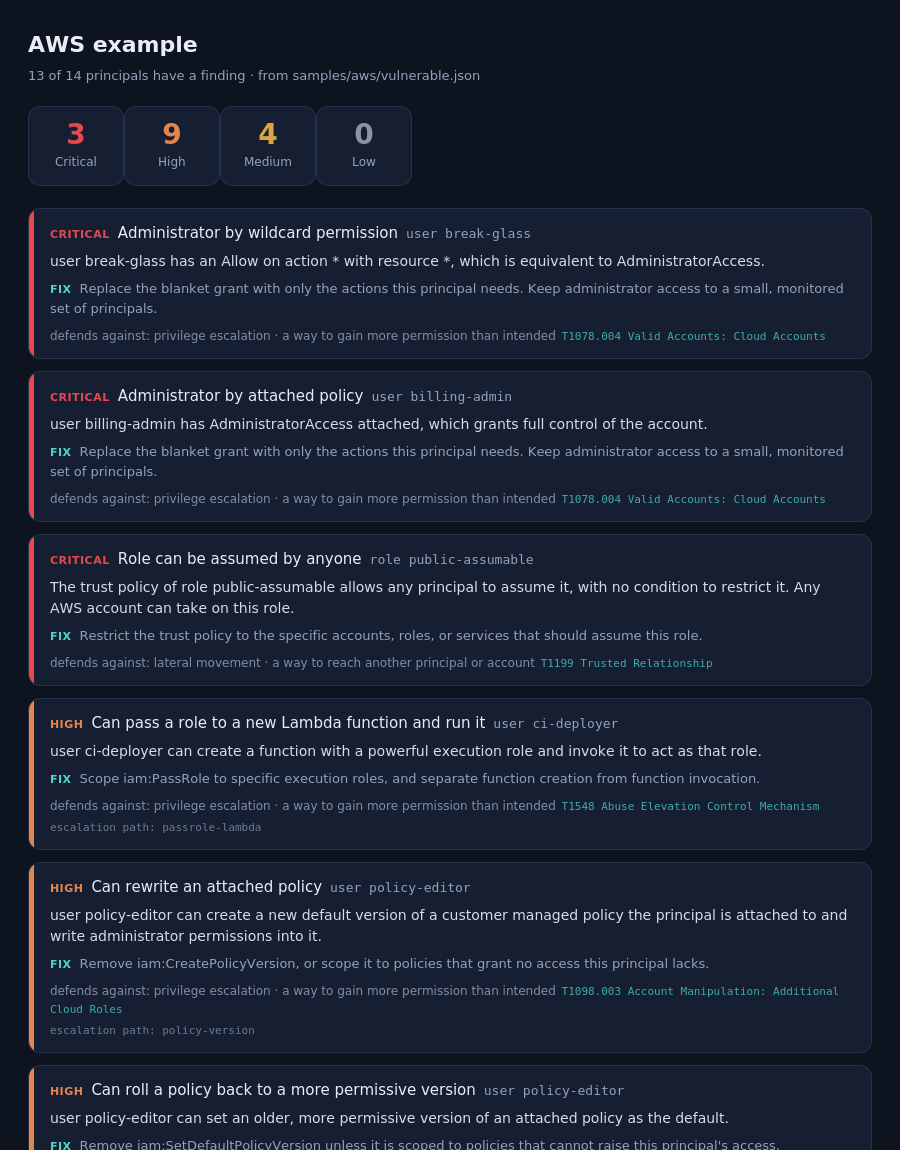
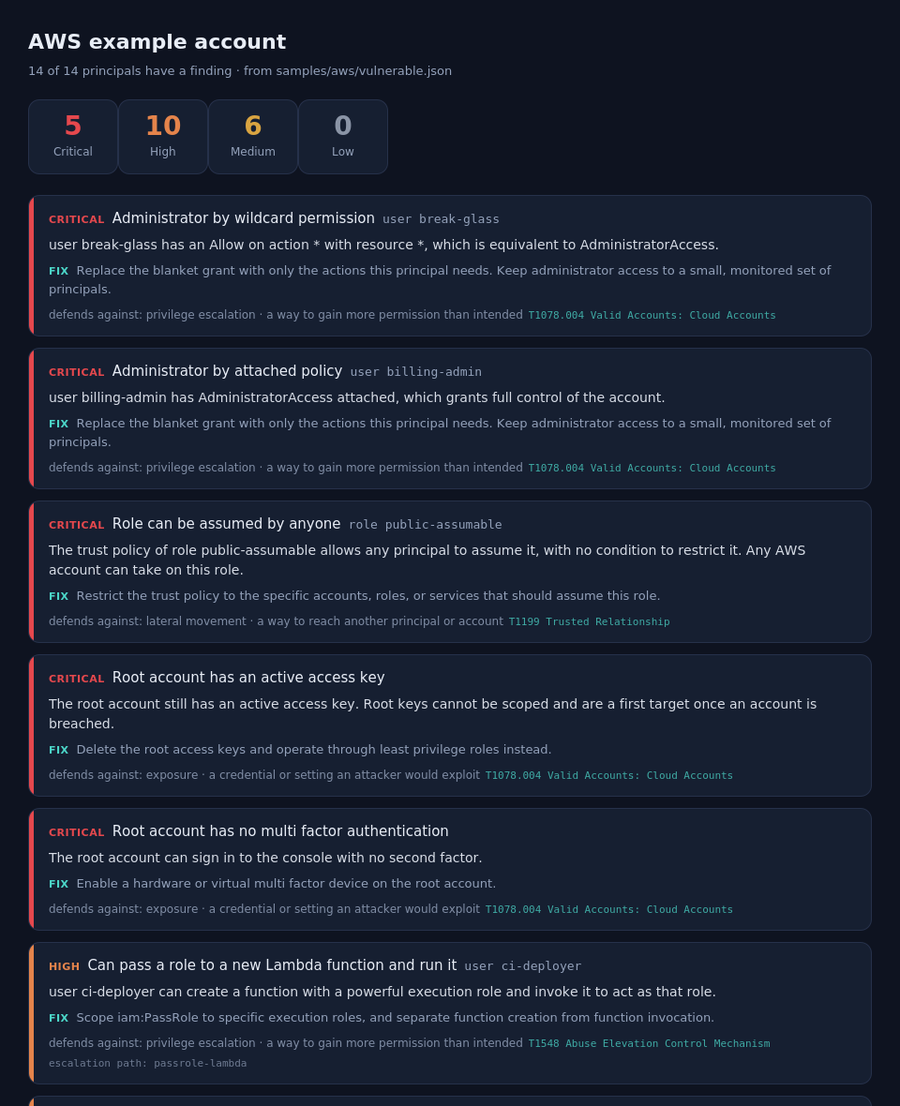
Raqib 0.4.0

Changed region(s): [[0.0311, 0.1844, 0.9333, 1.0], [0.0311, 0.0307, 0.5289, 0.1537]]

diff --git a/docs/report.html b/docs/report.html
@@ -1,7 +1,7 @@
 <!doctype html>
 <html lang="en"><head>
 <meta charset="utf-8"><meta name="viewport" content="width=device-width,initial-scale=1">
-<title>AWS account 111122223333</title>
+<title>AWS example account</title>
 <meta name="generator" content="Raqib">
 <style>
 :root{--bg:#0e1320;--panel:#161f31;--line:#26314a;--text:#e8edf6;--dim:#93a1ba;--accent:#4bd6c8}
@@ -32,7 +32,7 @@ h1{font-size:22px;margin:0 0 4px}
 .mark{color:var(--accent);font-weight:600}
 </style></head>
 <body><div class="wrap">
-<h1>AWS account 111122223333</h1>
+<h1>AWS example account</h1>
 <div class="sub">14 of 14 principals have a finding &middot; from samples/aws/vulnerable.json</div>
 <div class="stats"><div class="stat"><div class="num" style="color:#e5484d">5</div><div class="lbl">critical</div></div><div class="stat"><div class="num" style="color:#e5844b">10</div><div class="lbl">high</div></div><div class="stat"><div class="num" style="color:#d9a441">6</div><div class="lbl">medium</div></div><div class="stat"><div class="num" style="color:#8a94a6">0</div><div class="lbl">low</div></div></div>
 <div class="finding" data-sev="critical"><div class="bar" style="background:#e5484d"></div><div class="body"><div class="head"><span class="sev" style="color:#e5484d">critical</span><span class="ttl">Administrator by wildcard permission</span><span class="who">user break-glass</span></div><div class="detail">user break-glass has an Allow on action * with resource *, which is equivalent to AdministratorAccess.</div><div class="fix"><span class="fixlbl">fix</span> Replace the blanket grant with only the actions this principal needs. Keep administrator access to a small, monitored set of principals.</div><div class="tactic">defends against: privilege escalation &middot; a way to gain more permission than intended <span class="tech">T1078.004 Valid Accounts: Cloud Accounts</span></div></div></div><div class="finding" data-sev="critical"><div class="bar" style="background:#e5484d"></div><div class="body"><div class="head"><span class="sev" style="color:#e5484d">critical</span><span class="ttl">Administrator by attached policy</span><span class="who">user billing-admin</span></div><div class="detail">user billing-admin has AdministratorAccess attached, which grants full control of the account.</div><div class="fix"><span class="fixlbl">fix</span> Replace the blanket grant with only the actions this principal needs. Keep administrator access to a small, monitored set of principals.</div><div class="tactic">defends against: privilege escalation &middot; a way to gain more permission than intended <span class="tech">T1078.004 Valid Accounts: Cloud Accounts</span></div></div></div><div class="finding" data-sev="critical"><div class="bar" style="background:#e5484d"></div><div class="body"><div class="head"><span class="sev" style="color:#e5484d">critical</span><span class="ttl">Role can be assumed by anyone</span><span class="who">role public-assumable</span></div><div class="detail">The trust policy of role public-assumable allows any principal to assume it, with no condition to restrict it. Any AWS account can take on this role.</div><div class="fix"><span class="fixlbl">fix</span> Restrict the trust policy to the specific accounts, roles, or services that should assume this role.</div><div class="tactic">defends against: lateral movement &middot; a way to reach another principal or account <span class="tech">T1199 Trusted Relationship</span></div></div></div><div class="finding" data-sev="critical"><div class="bar" style="background:#e5484d"></div><div class="body"><div class="head"><span class="sev" style="color:#e5484d">critical</span><span class="ttl">Root account has an active access key</span></div><div class="detail">The root account still has an active access key. Root keys cannot be scoped and are a first target once an account is breached.</div><div class="fix"><span class="fixlbl">fix</span> Delete the root access keys and operate through least privilege roles instead.</div><div class="tactic">defends against: exposure &middot; a credential or setting an attacker would exploit <span class="tech">T1078.004 Valid Accounts: Cloud Accounts</span></div></div></div><div class="finding" data-sev="critical"><div class="bar" style="background:#e5484d"></div><div class="body"><div class="head"><span class="sev" style="color:#e5484d">critical</span><span class="ttl">Root account has no multi factor authentication</span></div><div class="detail">The root account can sign in to the console with no second factor.</div><div class="fix"><span class="fixlbl">fix</span> Enable a hardware or virtual multi factor device on the root account.</div><div class="tactic">defends against: exposure &middot; a credential or setting an attacker would exploit <span class="tech">T1078.004 Valid Accounts: Cloud Accounts</span></div></div></div><div class="finding" data-sev="high"><div class="bar" style="background:#e5844b"></div><div class="body"><div class="head"><span class="sev" style="color:#e5844b">high</span><span class="ttl">Can pass a role to a new Lambda function and run it</span><span class="who">user ci-deployer</span></div><div class="detail">user ci-deployer can create a function with a powerful execution role and invoke it to act as that role.</div><div class="fix"><span class="fixlbl">fix</span> Scope iam:PassRole to specific execution roles, and separate function creation from function invocation.</div><div class="tactic">defends against: privilege escalation &middot; a way to gain more permission than intended <span class="tech">T1548 Abuse Elevation Control Mechanism</span></div><div class="refs">escalation path: passrole-lambda</div></div></div><div class="finding" data-sev="high"><div class="bar" style="background:#e5844b"></div><div class="body"><div class="head"><span class="sev" style="color:#e5844b">high</span><span class="ttl">Can rewrite an attached policy</span><span class="who">user policy-editor</span></div><div class="detail">user policy-editor can create a new default version of a customer managed policy the principal is attached to and write administrator permissions into it.</div><div class="fix"><span class="fixlbl">fix</span> Remove iam:CreatePolicyVersion, or scope it to policies that grant no access this principal lacks.</div><div class="tactic">defends against: privilege escalation &middot; a way to gain more permission than intended <span class="tech">T1098.003 Account Manipulation: Additional Cloud Roles</span></div><div class="refs">escalation path: policy-version</div></div></div><div class="finding" data-sev="high"><div class="bar" style="background:#e5844b"></div><div class="body"><div class="head"><span class="sev" style="color:#e5844b">high</span><span class="ttl">Can roll a policy back to a more permissive version</span><span class="who">user policy-editor</span></div><div class="detail">user policy-editor can set an older, more permissive version of an attached policy as the default.</div><div class="fix"><span class="fixlbl">fix</span> Remove iam:SetDefaultPolicyVersion unless it is scoped to policies that cannot raise this principal&#x27;s access.</div><div class="tactic">defends against: privilege escalation &middot; a way to gain more permission than intended <span class="tech">T1098.003 Account Manipulation: Additional Cloud Roles</span></div><div class="refs">escalation path: set-default-version</div></div></div><div class="finding" data-sev="high"><div class="bar" style="background:#e5844b"></div><div class="body"><div class="head"><span class="sev" style="color:#e5844b">high</span><span class="ttl">Can pass a role to a new EC2 instance</span><span class="who">user policy-editor</span></div><div class="detail">user policy-editor can launch an instance with a powerful instance profile and use its credentials.</div><div class="fix"><span class="fixlbl">fix</span> Scope iam:PassRole to specific low privilege roles, and restrict ec2:RunInstances.</div><div class="tactic">defends against: privilege escalation &middot; a way to gain more permission than intended <span class="tech">T1548 Abuse Elevation Control Mechanism</span></div><div class="refs">escalation path: passrole-ec2</div></div></div><div class="finding" data-sev="high"><div class="bar" style="background:#e5844b"></div><div class="body"><div class="head"><span class="sev" style="color:#e5844b">high</span><span class="ttl">Administrator by wildcard permission</span><span class="who">user bounded-operator</span></div><div class="detail">user bounded-operator has an Allow on action * with resource *, which is equivalent to AdministratorAccess. A permissions boundary (s3-only-boundary) is attached, so effective permissions are limited to the boundary rather than the whole account. Verify the boundary.</div><div class="fix"><span class="fixlbl">fix</span> Replace the blanket grant with only the actions this principal needs. Keep administrator access to a small, monitored set of principals.</div><div class="tactic">defends against: privilege escalation &middot; a way to gain more permission than intended <span class="tech">T1078.004 Valid Accounts: Cloud Accounts</span></div></div></div><div class="finding" data-sev="high"><div class="bar" style="background:#e5844b"></div><div class="body"><div class="head"><span class="sev" style="color:#e5844b">high</span><span class="ttl">Full control of iam through a service wildcard</span><span class="who">user iam-admin</span></div><div class="detail">user iam-admin is allowed iam:* , every action in a sensitive service on resource *.</div><div class="fix"><span class="fixlbl">fix</span> List only the iam actions this principal uses instead of the iam:* wildcard.</div><div class="tactic">defends against: privilege escalation &middot; a way to gain more permission than intended <span class="tech">T1078.004 Valid Accounts: Cloud Accounts</span></div></div></div><div class="finding" data-sev="high"><div class="bar" style="background:#e5844b"></div><div class="body"><div class="head"><span class="sev" style="color:#e5844b">high</span><span class="ttl">Can read or move data broadly</span><span class="who">user secrets-reader</span></div><div class="detail">user secrets-reader can read every secret in Secrets Manager, and read every SSM parameter. An intruder holding this principal would use it to pull data out.</div><div class="fix"><span class="fixlbl">fix</span> Scope these actions to the specific secrets, buckets, parameters, and tables the principal needs, and never to all of them.</div><div class="tactic">defends against: exfiltration <span class="tech">T1530 Data from Cloud Storage</span></div></div></div><div class="finding" data-sev="high"><div class="bar" style="background:#e5844b"></div><div class="body"><div class="head"><span class="sev" style="color:#e5844b">high</span><span class="ttl">Can read or move data broadly</span><span class="who">role public-assumable</span></div><div class="detail">role public-assumable can read objects in any bucket. An intruder holding this principal would use it to pull data out.</div><div class="fix"><span class="fixlbl">fix</span> Scope these actions to the specific secrets, buckets, parameters, and tables the principal needs, and never to all of them.</div><div class="tactic">defends against: exfiltration <span class="tech">T1530 Data from Cloud Storage</span></div></div></div><div class="finding" data-sev="high"><div class="bar" style="background:#e5844b"></div><div class="body"><div class="head"><span class="sev" style="color:#e5844b">high</span><span class="ttl">Can weaken the audit trail</span><span class="who">user log-manager</span></div><div class="detail">user log-manager can stop or delete CloudTrail, stop or delete Config recording, and disable or delete GuardDuty. An intruder holding this principal would use it to reduce or erase the record of what they did.</div><div class="fix"><span class="fixlbl">fix</span> Remove these actions from the principal, and protect logging with an organization policy so a single account cannot turn it off.</div><div class="tactic">defends against: defense evasion <span class="tech">T1562.008 Impair Defenses: Disable or Modify Cloud Logs</span></div></div></div><div class="finding" data-sev="high"><div class="bar" style="background:#e5844b"></div><div class="body"><div class="head"><span class="sev" style="color:#e5844b">high</span><span class="ttl">Console user without multi factor authentication</span><span class="who">user policy-editor</span></div><div class="detail">policy-editor can sign in to the console with a password and no second factor, so a phished or reused password is enough to sign in.</div><div class="fix"><span class="fixlbl">fix</span> Require multi factor authentication for every console user.</div><div class="tactic">defends against: exposure &middot; a credential or setting an attacker would exploit <span class="tech">T1078.004 Valid Accounts: Cloud Accounts</span></div></div></div><div class="finding" data-sev="medium"><div class="bar" style="background:#d9a441"></div><div class="body"><div class="head"><span class="sev" style="color:#d9a441">medium</span><span class="ttl">Can export the entire IAM configuration</span><span class="who">user recon-bot</span></div><div class="detail">user recon-bot can call iam:GetAccountAuthorizationDetails, which returns every user, role, group, and policy in one response. It is the first thing an intruder pulls to plan a path, the same export this report is built from.</div><div class="fix"><span class="fixlbl">fix</span> Limit this action to the small set of principals that audit IAM, and watch for it in the trail.</div><div class="tactic">defends against: reconnaissance &middot; broad visibility an attacker would use to plan <span class="tech">T1580 Cloud Infrastructure Discovery</span></div></div></div><div class="finding" data-sev="medium"><div class="bar" style="background:#d9a441"></div><div class="body"><div class="head"><span class="sev" style="color:#d9a441">medium</span><span class="ttl">Can reset another user&#x27;s console password, possibly limited by a resource restriction</span><span class="who">user support-agent</span></div><div class="detail">user support-agent can reset the console password of a more privileged user and sign in as them. The grant is scoped to specific resources, so confirm the scope does not include a target more privileged than this principal.</div><div class="fix"><span class="fixlbl">fix</span> Scope iam:UpdateLoginProfile to the principal&#x27;s own user.</div><div class="tactic">defends against: privilege escalation &middot; a way to gain more permission than intended <span class="tech">T1098 Account Manipulation</span></div><div class="refs">escalation path: update-login-profile</div></div></div><div class="finding" data-sev="medium"><div class="bar" style="background:#d9a441"></div><div class="body"><div class="head"><span class="sev" style="color:#d9a441">medium</span><span class="ttl">Can create IAM users</span><span class="who">user identity-provisioner</span></div><div class="detail">user identity-provisioner can create IAM users. On its own that is limited, but paired with a way to grant access it becomes a back door.</div><div class="fix"><span class="fixlbl">fix</span> Limit iam:CreateUser to the principals that provision identities, and watch for new users.</div><div class="tactic">defends against: persistence &middot; a way to keep access once gained <span class="tech">T1098.001 Account Manipulation: Additional Cloud Credentials</span></div></div></div><div class="finding" data-sev="medium"><div class="bar" style="background:#d9a441"></div><div class="body"><div class="head"><span class="sev" style="color:#d9a441">medium</span><span class="ttl">Role trusts an external account</span><span class="who">role partner-access</span></div><div class="detail">The trust policy of role partner-access allows arn:aws:iam::999988887777:root to assume it. If that account is a third party, a missing external id lets a confused deputy assume the role on a caller&#x27;s behalf.</div><div class="fix"><span class="fixlbl">fix</span> Confirm the account is one you control or a trusted partner, and require an external id condition for third party access.</div><div class="tactic">defends against: lateral movement &middot; a way to reach another principal or account <span class="tech">T1199 Trusted Relationship</span></div></div></div><div class="finding" data-sev="medium"><div class="bar" style="background:#d9a441"></div><div class="body"><div class="head"><span class="sev" style="color:#d9a441">medium</span><span class="ttl">Access key is old and still active</span><span class="who">user policy-editor</span></div><div class="detail">An access key for policy-editor was last rotated 1583 days ago and is still active. A leaked long lived key stays valid until it is rotated.</div><div class="fix"><span class="fixlbl">fix</span> Rotate keys on a schedule shorter than 90 days, and remove keys that are not in use.</div><div class="tactic">defends against: exposure &middot; a credential or setting an attacker would exploit <span class="tech">T1078.004 Valid Accounts: Cloud Accounts</span></div></div></div><div class="finding" data-sev="medium"><div class="bar" style="background:#d9a441"></div><div class="body"><div class="head"><span class="sev" style="color:#d9a441">medium</span><span class="ttl">Access key is old and still active</span><span class="who">user report-reader</span></div><div class="detail">An access key for report-reader was last rotated 381 days ago and is still active. A leaked long lived key stays valid until it is rotated.</div><div class="fix"><span class="fixlbl">fix</span> Rotate keys on a schedule shorter than 90 days, and remove keys that are not in use.</div><div class="tactic">defends against: exposure &middot; a credential or setting an attacker would exploit <span class="tech">T1078.004 Valid Accounts: Cloud Accounts</span></div></div></div>

diff --git a/docs/index.html b/docs/index.html
@@ -1,8 +1,8 @@
 <!doctype html>
 <html lang="en"><head>
 <meta charset="utf-8"><meta name="viewport" content="width=device-width,initial-scale=1">
-<title>Raqib: read only AWS IAM exposure auditor</title>
-<meta name="description" content="Raqib reads an AWS IAM export and reports the privilege escalation paths, dangerous trust relationships, wildcard permissions, and stale credentials an attacker would exploit, each with the fix. Zero dependencies, never touches your account.">
+<title>Raqib: read only cloud exposure auditor for AWS, Azure, GCP, and Kubernetes</title>
+<meta name="description" content="Raqib reads a cloud authorization export, for AWS, Azure, GCP, or Kubernetes, and reports the privilege escalation, persistence, lateral movement, exfiltration, and anti forensics paths an attacker would use, each with the fix. Zero dependencies, never touches your account.">
 <style>
 :root{--bg:#0e1320;--panel:#161f31;--line:#26314a;--text:#e8edf6;--dim:#93a1ba;--accent:#4bd6c8}
 *{box-sizing:border-box}
@@ -26,7 +26,7 @@ li{margin:5px 0;color:#dce3f0}
 </style></head>
 <body><div class="wrap">
 <h1>Raqib</h1>
-<div class="tag">A read only lookout over your AWS IAM. It finds the paths an attacker would take, and tells you how to close them.</div>
+<div class="tag">A read only lookout over your cloud access, for AWS, Azure, GCP, and Kubernetes. It finds the paths an attacker would take, and tells you how to close them.</div>
 <div class="links">
   <a href="https://github.com/SiteQ8/Raqib">GitHub</a>
   <a href="report.html">Open a sample report</a>
@@ -41,6 +41,7 @@ li{margin:5px 0;color:#dce3f0}
 <p>This is Raqib run against a deliberately weak example account. <a href="report.html" style="color:var(--accent)">Open the live report.</a></p>
 
 <h2>Run it</h2>
+<p>Produce your cloud's authorization export and audit it. Raqib detects the cloud on its own. The AWS quickstart:</p>
 <pre>aws iam get-account-authorization-details &gt; export.json
 python3 raqib.py audit export.json
 
@@ -53,8 +54,7 @@ python3 raqib.py audit export.json --strict</pre>
 <p>It is a single zero dependency Python tool. It needs Python 3.8 or newer and nothing else.</p>
 
 <h2>Four clouds, six tactics</h2>
-<p>Raqib reads AWS, Azure, GCP, and Kubernetes, and reports the same six attacker tactics in each cloud's own terms. The checks are named by tactic and cloud, so the defense maps onto the offense one for one. Run <code>python3 raqib.py defends</code> for the map.</p>
-<p>Raqib's checks are organized by attacker tactic, the same six an offensive framework runs, so the defense maps onto the offense one for one. Run <code>python3 raqib.py defends</code> for the map.</p>
+<p>Raqib reads AWS, Azure, GCP, and Kubernetes, and reports the same six attacker tactics in each cloud's own terms. The checks are named by tactic and cloud, in a matrix that mirrors the offensive framework module for module. Run <code>python3 raqib.py defends</code> for the map.</p>
 <ul>
 <li><b>Reconnaissance</b>: the mapping done first, dumping the IAM configuration in AWS, Reader over a management group in Azure, project Viewer in GCP, cluster wide list in Kubernetes.</li>
 <li><b>Privilege escalation</b>: IAM escalation paths and administrator in AWS, Owner and writing role assignments in Azure, Owner and setIamPolicy and impersonation in GCP, cluster-admin and the escalate, bind, and impersonate verbs in Kubernetes.</li>

diff --git a/tests/test_gcp.py b/tests/test_gcp.py
@@ -1,4 +1,4 @@
-import unittest, os, json
+import os, json, unittest
 from raqib import audit
 from raqib.models import gcp
 
@@ -6,41 +6,46 @@ HERE = os.path.dirname(os.path.dirname(os.path.abspath(__file__)))
 
 
 def load(name):
-    with open(os.path.join(HERE, "samples", "gcp", name), "r", encoding="utf-8") as fh:
+    with open(os.path.join(HERE, "samples", "gcp", name)) as fh:
         return json.load(fh)
 
 
 class TestGcpModel(unittest.TestCase):
-    def test_owner_role_is_owner(self):
+    def test_owner_detected(self):
         acct = gcp.load(load("vulnerable.json"))
-        owner = [p for p in acct.principals if p.name == "founder@example.com"][0]
-        self.assertTrue(acct.is_owner(owner))
+        self.assertTrue(any(acct.is_owner(p) for p in acct.principals))
 
-    def test_custom_role_permissions_resolve(self):
-        acct = gcp.load({"bindings": [{"role": "projects/p/roles/r", "members": ["user:a@b.com"]}],
-                         "customRoles": [{"name": "projects/p/roles/r", "includedPermissions": ["storage.objects.get"]}]})
-        p = acct.principals[0]
-        self.assertTrue(acct.has_permission(p, "storage.objects.get"))
+    def test_custom_role_permissions_read(self):
+        acct = gcp.load(load("clean.json"))
+        p = [p for p in acct.principals if "reporting" in p.member][0]
+        self.assertTrue(acct.has_permission(p, "compute.instances.get"))
+        self.assertFalse(acct.has_permission(p, "storage.objects.get"))
 
-    def test_public_member_detected(self):
+    def test_public_member_flagged_kind(self):
         acct = gcp.load(load("vulnerable.json"))
-        self.assertTrue(any(p.is_public for p in acct.principals))
+        pub = [p for p in acct.principals if p.is_public]
+        self.assertTrue(pub)
+        self.assertEqual(pub[0].kind, "public")
 
 
 class TestGcpFindings(unittest.TestCase):
-    def test_vulnerable_covers_the_key_tactics(self):
-        findings, _, _ = audit(load("vulnerable.json"), cloud="gcp")
+    def test_vulnerable_covers_tactics(self):
+        findings, summary, _ = audit(load("vulnerable.json"))
+        self.assertEqual(summary["cloud"], "gcp")
         tactics = {f["tactic"] for f in findings}
         for t in ["privilege escalation", "lateral movement", "persistence", "exfiltration", "defense evasion", "reconnaissance"]:
             self.assertIn(t, tactics)
 
-    def test_public_binding_is_critical(self):
-        findings, _, _ = audit(load("vulnerable.json"), cloud="gcp")
-        pub = [f for f in findings if f["principal"]["name"] in ("allUsers",)][0]
-        self.assertEqual(pub["severity"], "critical")
+    def test_setiampolicy_is_high(self):
+        findings, _, _ = audit(load("vulnerable.json"))
+        self.assertTrue(any("rewrite the project IAM policy" in f["title"] and f["severity"] == "high" for f in findings))
+
+    def test_public_is_critical(self):
+        findings, _, _ = audit(load("vulnerable.json"))
+        self.assertTrue(any("granted to everyone" in f["title"] and f["severity"] == "critical" for f in findings))
 
     def test_clean_has_no_findings(self):
-        _, summary, _ = audit(load("clean.json"), cloud="gcp")
+        findings, summary, _ = audit(load("clean.json"))
         self.assertEqual(summary["total"], 0)
 
 

diff --git a/tests/test_k8s.py b/tests/test_k8s.py
@@ -1,4 +1,4 @@
-import unittest, os, json
+import os, json, unittest
 from raqib import audit
 from raqib.models import k8s
 
@@ -6,41 +6,47 @@ HERE = os.path.dirname(os.path.dirname(os.path.abspath(__file__)))
 
 
 def load(name):
-    with open(os.path.join(HERE, "samples", "k8s", name), "r", encoding="utf-8") as fh:
+    with open(os.path.join(HERE, "samples", "k8s", name)) as fh:
         return json.load(fh)
 
 
 class TestK8sModel(unittest.TestCase):
     def test_cluster_admin_detected(self):
         acct = k8s.load(load("vulnerable.json"))
-        admin = [p for p in acct.principals if p.name == "break-glass"][0]
-        self.assertTrue(acct.is_cluster_admin(admin))
-
-    def test_binding_resolves_rules_to_subject(self):
-        acct = k8s.load(load("vulnerable.json"))
-        sa = [p for p in acct.principals if p.name == "audit-sa"][0]
-        self.assertTrue(acct.can(sa, "get", "secrets", cluster_wide_only=True))
+        admins = [p for p in acct.principals if acct.is_cluster_admin(p)]
+        self.assertTrue(admins)
 
     def test_namespaced_role_is_not_cluster_wide(self):
         acct = k8s.load(load("clean.json"))
         for p in acct.principals:
             self.assertFalse(acct.can(p, "get", "pods", cluster_wide_only=True))
 
+    def test_secret_read_resolves(self):
+        acct = k8s.load(load("vulnerable.json"))
+        sa = [p for p in acct.principals if p.name == "audit-sa"][0]
+        self.assertTrue(acct.can(sa, "get", "secrets", cluster_wide_only=True))
+
 
 class TestK8sFindings(unittest.TestCase):
-    def test_vulnerable_covers_every_tactic(self):
-        findings, _, _ = audit(load("vulnerable.json"), cloud="k8s")
+    def test_vulnerable_covers_all_tactics(self):
+        findings, summary, _ = audit(load("vulnerable.json"))
+        self.assertEqual(summary["cloud"], "k8s")
         tactics = {f["tactic"] for f in findings}
-        for t in ["reconnaissance", "privilege escalation", "persistence", "lateral movement", "exfiltration", "defense evasion"]:
+        for t in ["privilege escalation", "persistence", "lateral movement", "exfiltration", "defense evasion", "reconnaissance"]:
             self.assertIn(t, tactics)
 
     def test_cluster_admin_is_critical(self):
-        findings, _, _ = audit(load("vulnerable.json"), cloud="k8s")
-        admin = [f for f in findings if f["principal"]["name"] == "break-glass"][0]
-        self.assertEqual(admin["severity"], "critical")
+        findings, _, _ = audit(load("vulnerable.json"))
+        self.assertTrue(any("cluster-admin" in f["title"] and f["severity"] == "critical" for f in findings))
+
+    def test_escalate_and_bind_flagged(self):
+        findings, _, _ = audit(load("vulnerable.json"))
+        titles = " ".join(f["title"] for f in findings)
+        self.assertIn("escalate", titles)
+        self.assertIn("bind", titles)
 
     def test_clean_has_no_findings(self):
-        _, summary, _ = audit(load("clean.json"), cloud="k8s")
+        findings, summary, _ = audit(load("clean.json"))
         self.assertEqual(summary["total"], 0)
 
 

diff --git a/tests/test_azure.py b/tests/test_azure.py
@@ -1,4 +1,4 @@
-import unittest, os, json
+import os, json, unittest
 from raqib import audit
 from raqib.models import azure
 
@@ -6,20 +6,20 @@ HERE = os.path.dirname(os.path.dirname(os.path.abspath(__file__)))
 
 
 def load(name):
-    with open(os.path.join(HERE, "samples", "azure", name), "r", encoding="utf-8") as fh:
+    with open(os.path.join(HERE, "samples", "azure", name)) as fh:
         return json.load(fh)
 
 
 class TestAzureModel(unittest.TestCase):
-    def test_resolves_owner_from_builtin_id(self):
+    def test_owner_is_resolved(self):
         acct = azure.load(load("vulnerable.json"))
-        owner = [p for p in acct.principals if p.name == "ops-lead"][0]
-        self.assertTrue(acct.is_owner(owner))
+        owners = [p for p in acct.principals if acct.is_owner(p)]
+        self.assertTrue(owners)
 
-    def test_role_assignment_write_is_seen(self):
+    def test_role_assignment_write_detected(self):
         acct = azure.load(load("vulnerable.json"))
-        sp = [p for p in acct.principals if p.name == "ci-sp"][0]
-        self.assertTrue(acct.allows(sp, "microsoft.authorization/roleassignments/write"))
+        p = [p for p in acct.principals if p.name == "ci-sp"][0]
+        self.assertTrue(acct.allows(p, "microsoft.authorization/roleassignments/write"))
 
     def test_reader_does_not_grant_data_read(self):
         acct = azure.load(load("vulnerable.json"))
@@ -28,19 +28,20 @@ class TestAzureModel(unittest.TestCase):
 
 
 class TestAzureFindings(unittest.TestCase):
-    def test_vulnerable_covers_the_key_tactics(self):
-        findings, summary, _ = audit(load("vulnerable.json"), cloud="azure")
+    def test_vulnerable_covers_key_tactics(self):
+        findings, summary, _ = audit(load("vulnerable.json"))
+        self.assertEqual(summary["cloud"], "azure")
         tactics = {f["tactic"] for f in findings}
-        for t in ["privilege escalation", "persistence", "exfiltration", "defense evasion", "reconnaissance"]:
+        for t in ["privilege escalation", "exfiltration", "defense evasion", "persistence", "reconnaissance"]:
             self.assertIn(t, tactics)
 
     def test_owner_is_critical(self):
-        findings, _, _ = audit(load("vulnerable.json"), cloud="azure")
-        owner = [f for f in findings if f["principal"]["name"] == "ops-lead"][0]
-        self.assertEqual(owner["severity"], "critical")
+        findings, _, _ = audit(load("vulnerable.json"))
+        crit = [f for f in findings if f["severity"] == "critical"]
+        self.assertTrue(any("Owner" in f["title"] for f in crit))
 
     def test_clean_has_no_findings(self):
-        _, summary, _ = audit(load("clean.json"), cloud="azure")
+        findings, summary, _ = audit(load("clean.json"))
         self.assertEqual(summary["total"], 0)
 
 

diff --git a/tests/test_detect.py b/tests/test_detect.py
@@ -1,0 +1,23 @@
+import unittest
+from raqib.lib import detect
+
+
+class TestDetect(unittest.TestCase):
+    def test_aws(self):
+        self.assertEqual(detect.detect_cloud({"UserDetailList": []}), "aws")
+
+    def test_azure(self):
+        self.assertEqual(detect.detect_cloud({"roleAssignments": [], "roleDefinitions": []}), "azure")
+
+    def test_gcp(self):
+        self.assertEqual(detect.detect_cloud({"bindings": []}), "gcp")
+
+    def test_k8s(self):
+        self.assertEqual(detect.detect_cloud({"items": [{"kind": "ClusterRole"}]}), "k8s")
+
+    def test_unknown(self):
+        self.assertIsNone(detect.detect_cloud({"something": 1}))
+
+
+if __name__ == "__main__":
+    unittest.main()

diff --git a/README.md b/README.md
@@ -20,7 +20,7 @@ Raqib detects which cloud an export is from and reads it. Pass `--cloud` to say 
 
 Raqib reads each cloud and reports in its own terms:
 
-Azure, GCP, and Kubernetes reports look the same as the AWS one, in that cloud's language. See `docs/report-azure.png`, `docs/report-gcp.png`, and `docs/report-k8s.png`.
+Azure, GCP, and Kubernetes reports look the same as the AWS one, in that cloud's language. See `docs/screenshots/report-azure.png`, `docs/screenshots/report-gcp.png`, and `docs/screenshots/report-k8s.png`.
 
 ## Why it exists
 

diff --git a/CHANGELOG.md b/CHANGELOG.md
@@ -10,7 +10,7 @@ Raqib is now a cloud tool, not an AWS tool, and it is organized as a cloud by ta
 - New per cloud models: Azure RBAC role assignments and definitions, GCP IAM policy bindings with predefined and custom roles, Kubernetes roles and bindings
 - New checks across all six tactics for Azure, GCP, and Kubernetes
 - A --cloud flag, cloud auto detection, and a defends command that prints the whole cloud by tactic map
-- Sample exports and tests for every cloud, 91 tests
+- Sample exports and tests for every cloud, 98 tests
 
 ## 0.3.0
 
